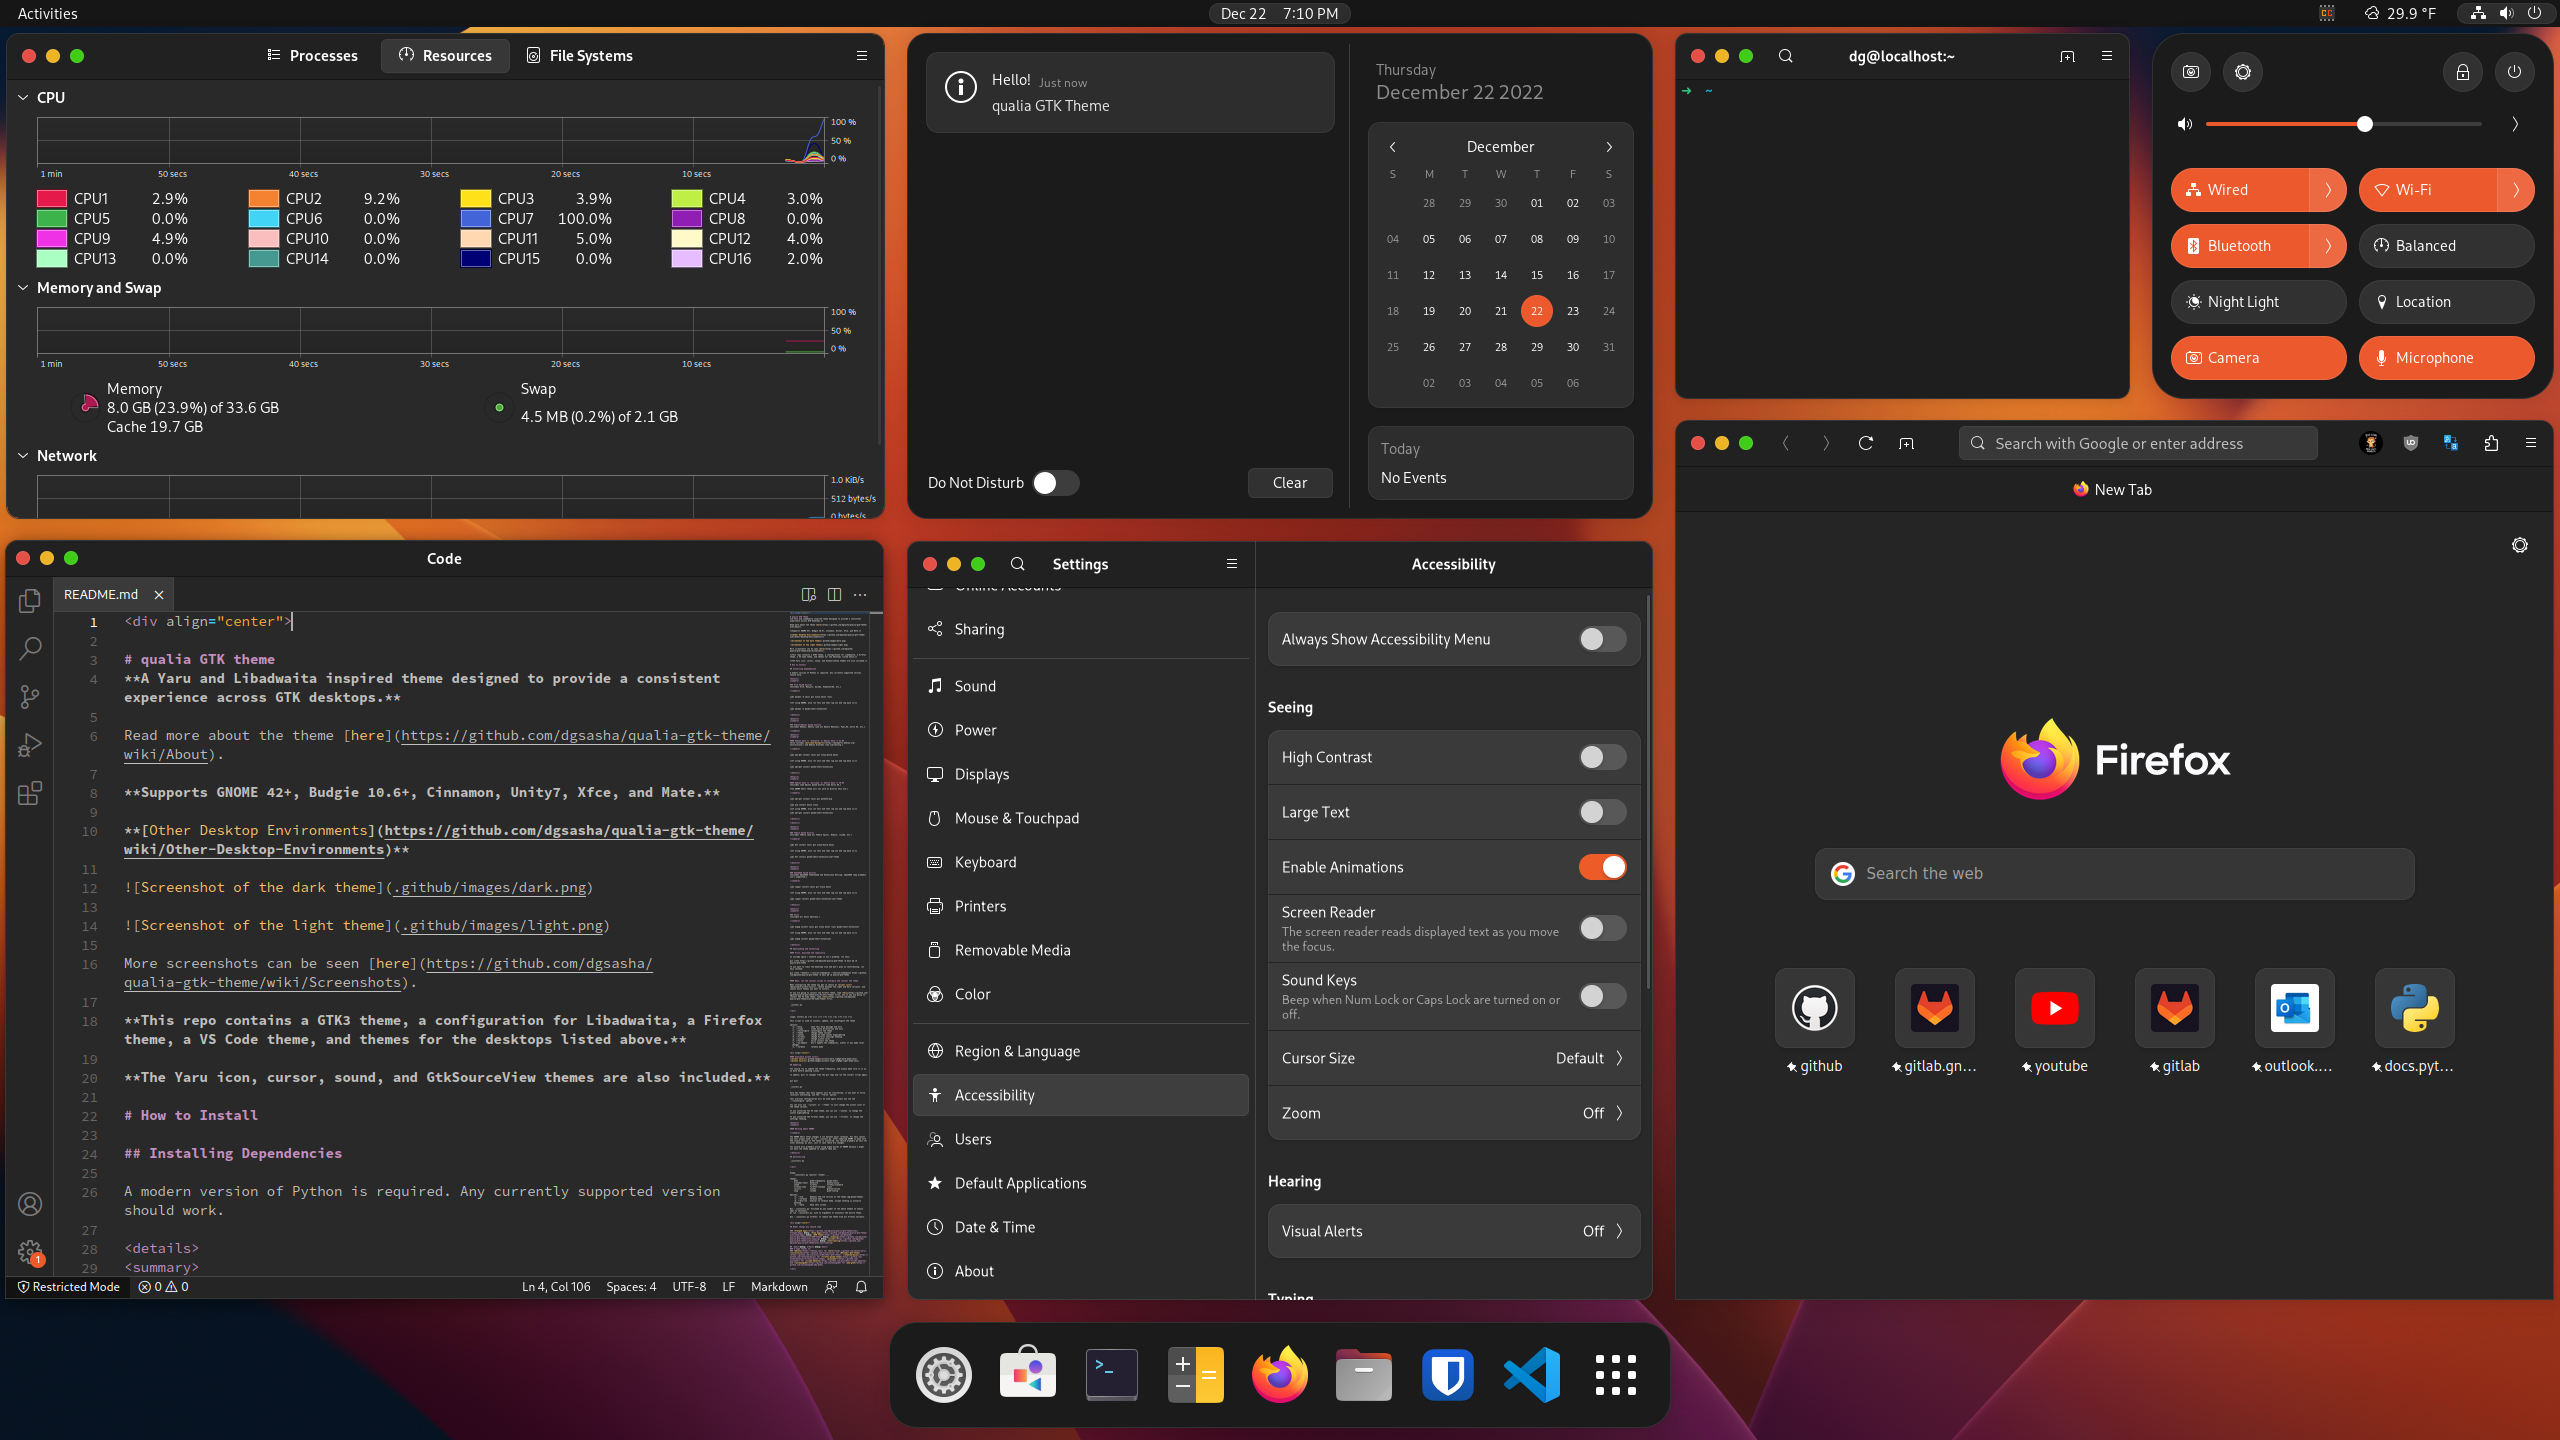
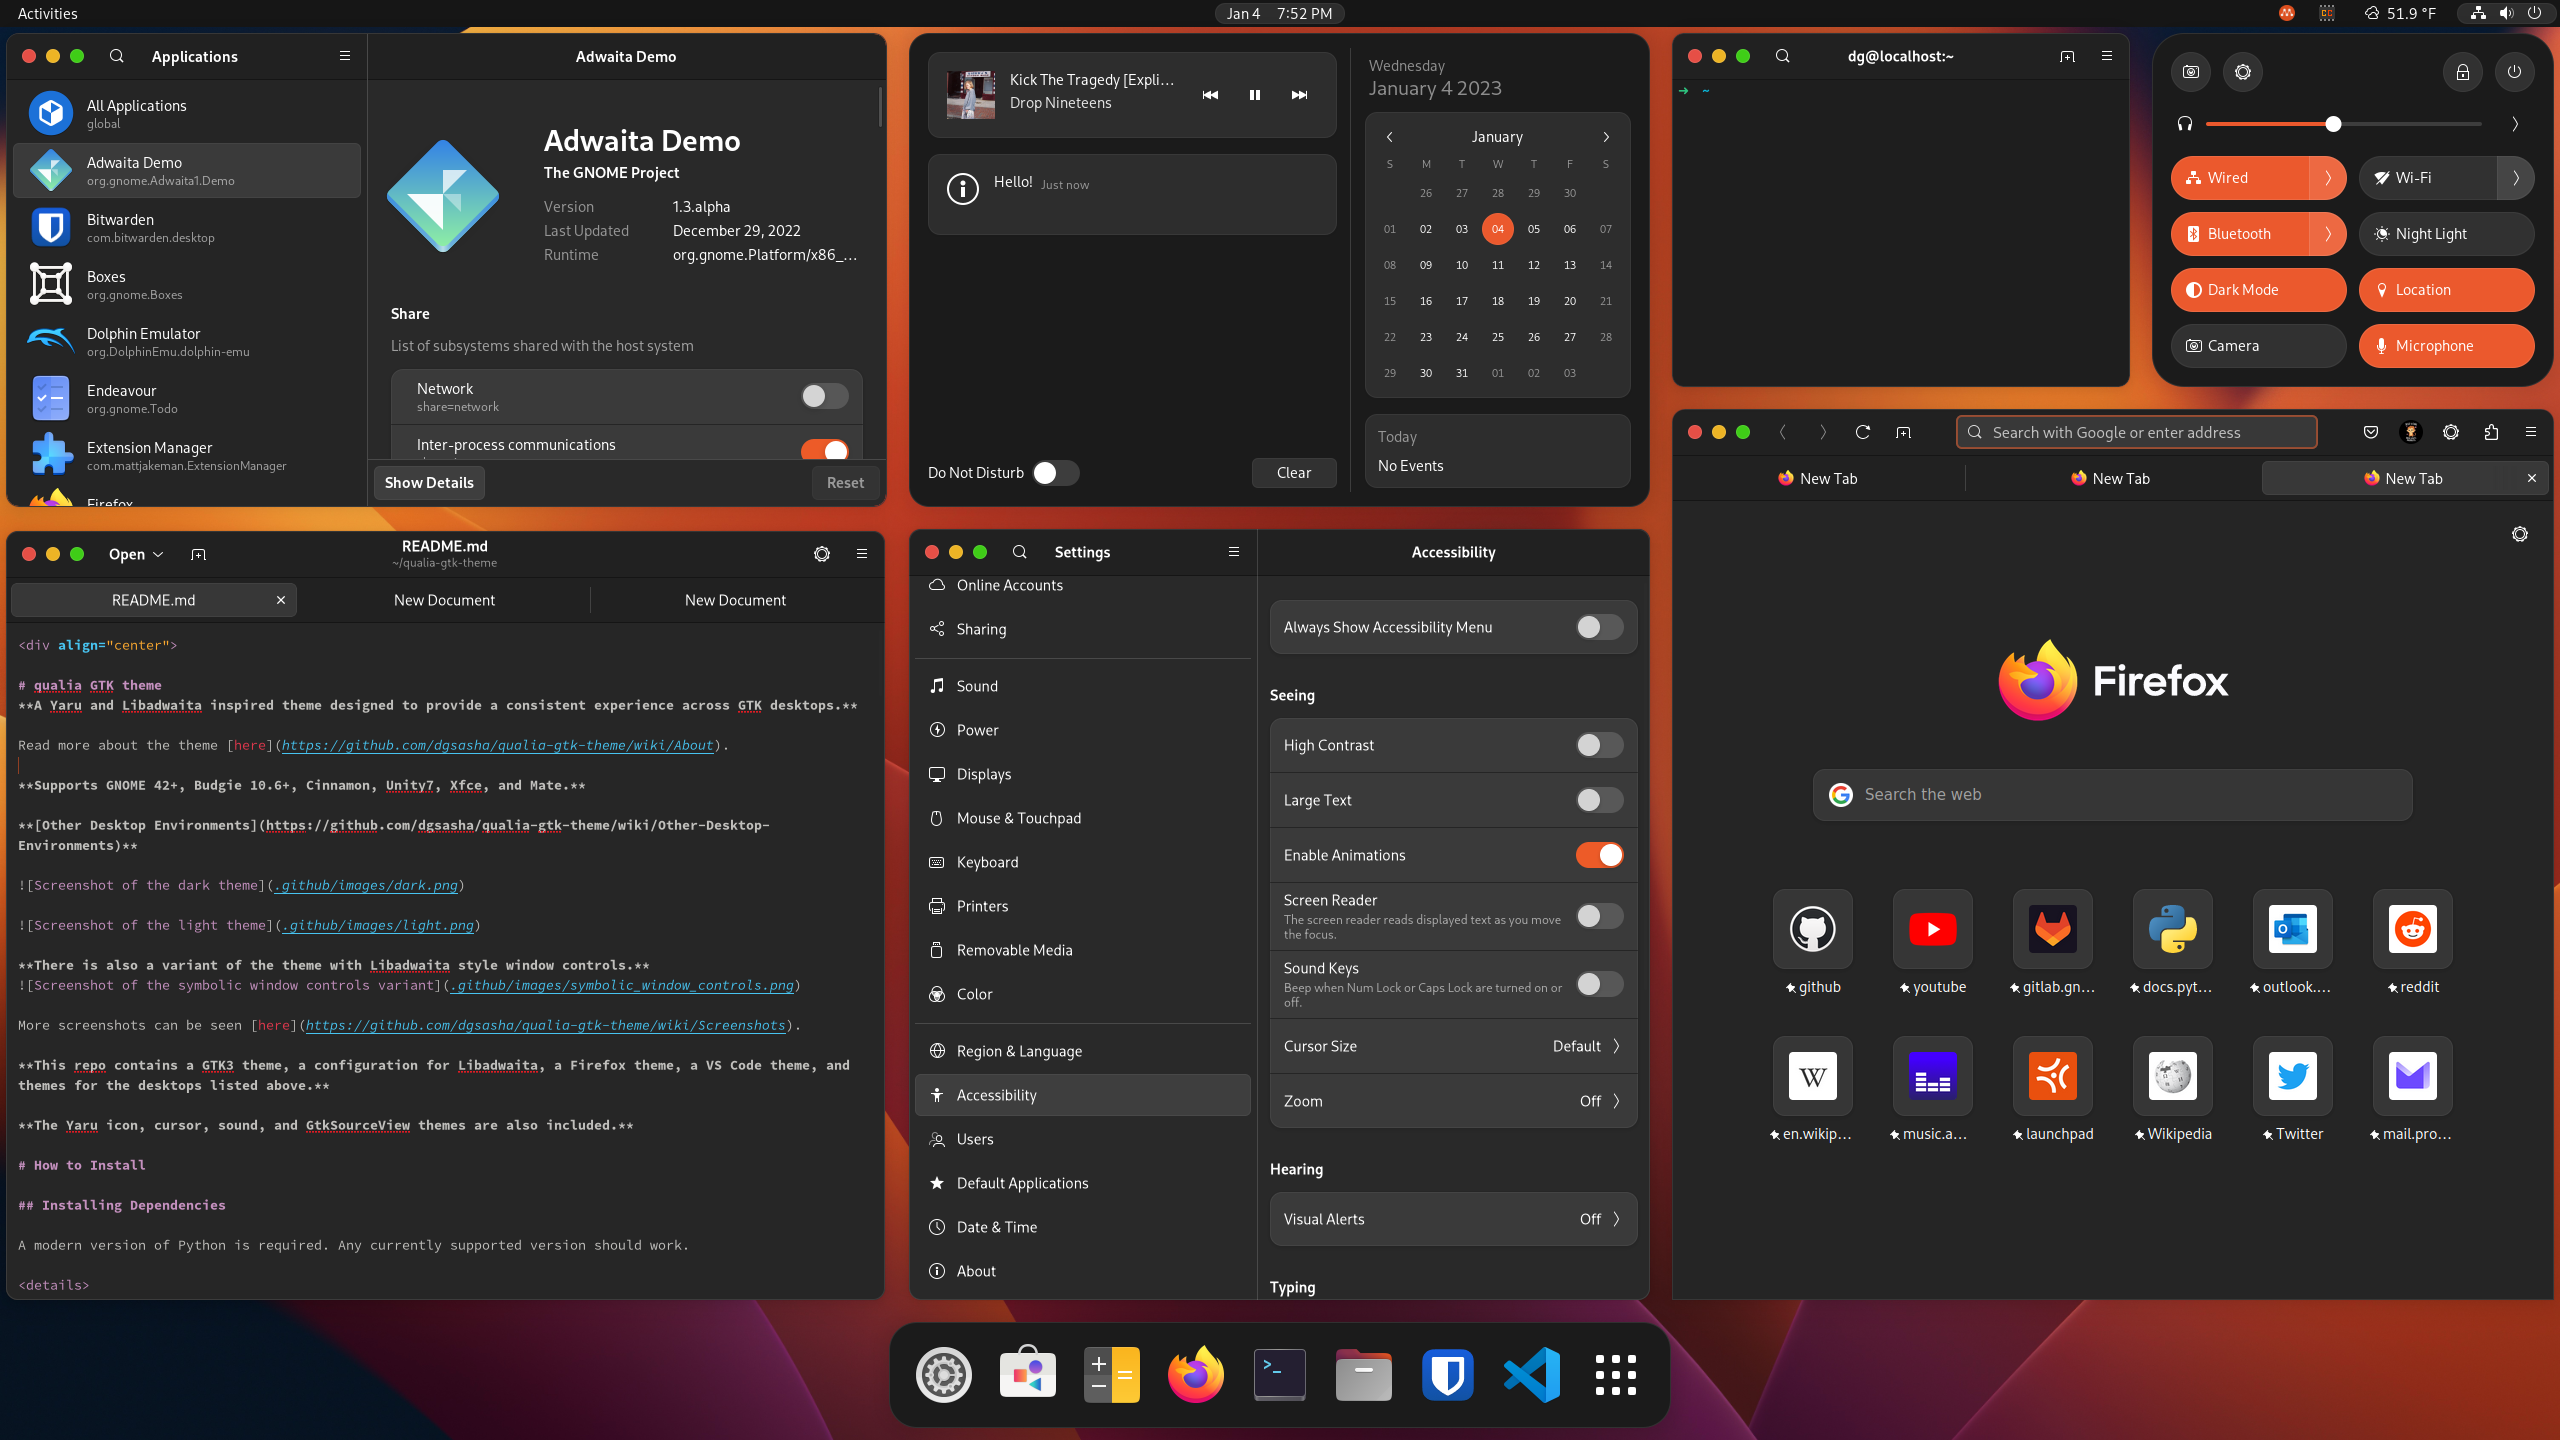
Update and let install script enable the gtksourceview theme

diff --git a/install.py b/install.py
@@ -374,6 +374,7 @@ def main():
     theme_name = f"qualia{config['suffix']}" if config['color'] == 'orange' else f"qualia-{config['color']}{config['suffix']}"
     icon_name = 'qualia-dark' if config['color'] == 'orange' else f"qualia-{config['color']}-dark"
     cursor_name = 'qualia'
+    sourceview_name = f"qualia{config['suffix']}"
     xfwm4_name = f"qualia{config['suffix']}-{config['window-controls']}"
     if shutil.which('xfconf-query') is not None:
         if 'xsettings' in check_output(['xfconf-query', '-l']) and check_output(['xfconf-query', '-c', 'xsettings', '-p', '/Gdk/WindowScalingFactor']) == '2':
@@ -389,7 +390,8 @@ def main():
         'gnome-shell': theme_name,
         'cinnamon-shell': theme_name,
         'metacity': xfwm4_name,
-        'xfwm4': xfwm4_name
+        'xfwm4': xfwm4_name,
+        'gtksourceview': sourceview_name
     }
 
     enable = Enable(config, verbose, **kwargs)
@@ -1240,6 +1242,18 @@ class Enable:
             'budgie': 'org.gnome.desktop.sound'
         }
 
+        gtksourceview_schemas = {
+            'Text Editor': 'org.gnome.TextEditor',
+            'Gedit': 'org.gnome.gedit.preferences.editor',
+            'Builder': 'org.gnome.builder.editor'
+        }
+
+        gtksourceview_keys = {
+            'Text Editor': 'style-scheme',
+            'Gedit': 'scheme',
+            'Builder': 'style-scheme-name'
+        }
+
         data = {}
         try:
             data['gtk3'] = {
@@ -1321,7 +1335,16 @@ class Enable:
             }
         except KeyError:
             pass
-
+        try:
+            data['gtksourceview'] = {
+                'schemas': gtksourceview_schemas,
+                'key': gtksourceview_keys,
+                'property': '/general/theme',
+                'channel': 'xfwm4',
+                'theme_name': self.names['gtksourceview']
+            }
+        except KeyError:
+            pass
         return data
 
     def enable_theme(self, desktop='all', uninstalling = False):
@@ -1334,6 +1357,7 @@ class Enable:
         '''
         data = self.data
         config = self.config
+        schema_list = check_output(['gsettings', 'list-schemas'])
         for theme, value in data.items():
             if theme in config['enabled'] or uninstalling:
                 if value['theme_name'] is None:
@@ -1362,19 +1386,23 @@ class Enable:
                         name = f"qualia{config['suffix']}"
                     else:
                         name = value['theme_name']
-                    key = value['key']
+                    if isinstance(value['key'], dict):
+                        key = value['key'][de]
+                    else:
+                        key = value['key']
                     if shutil.which('gsettings') is not None:
-                        if config['desktop_versions'][de] is not None:
-                            de_pretty = 'GNOME' if de == 'gnome' else de.capitalize()
-                            old = check_output(['gsettings', 'get', schema, key])
-                            if theme not in config['old']:
-                                config['old'][theme] = {}
-                                config['old'][theme][de] = old
-                            elif de in config['old'][theme] and config['old'][theme][de].startswith('qualia'):
-                                config['old'][theme][de] = old
-                            if old != name:
-                                print(f'Changing {config["enableable"][theme]} theme in {de_pretty} to {BOLD}{name}{NC}.')
-                                run_command(['gsettings', 'set', schema, key, name], override_verbose = self.verbose)
+                        if schema in schema_list:
+                            if not (de in config['desktop_versions'] and config['desktop_versions'][de] is None):
+                                de_pretty = 'GNOME' if de == 'gnome' else de.capitalize()
+                                old = check_output(['gsettings', 'get', schema, key])
+                                if theme not in config['old']:
+                                    config['old'][theme] = {}
+                                    config['old'][theme][de] = old
+                                elif de in config['old'][theme] and config['old'][theme][de].startswith('qualia'):
+                                    config['old'][theme][de] = old
+                                if old != name:
+                                    print(f'Changing {config["enableable"][theme]} theme in {de_pretty} to {BOLD}{name}{NC}.')
+                                    run_command(['gsettings', 'set', schema, key, name], override_verbose = self.verbose)
                     else:
                         print(f"{BLYELLOW}'gsettings'{BYELLOW} not found, not enabling {theme} theme.{NC}")
                         break
